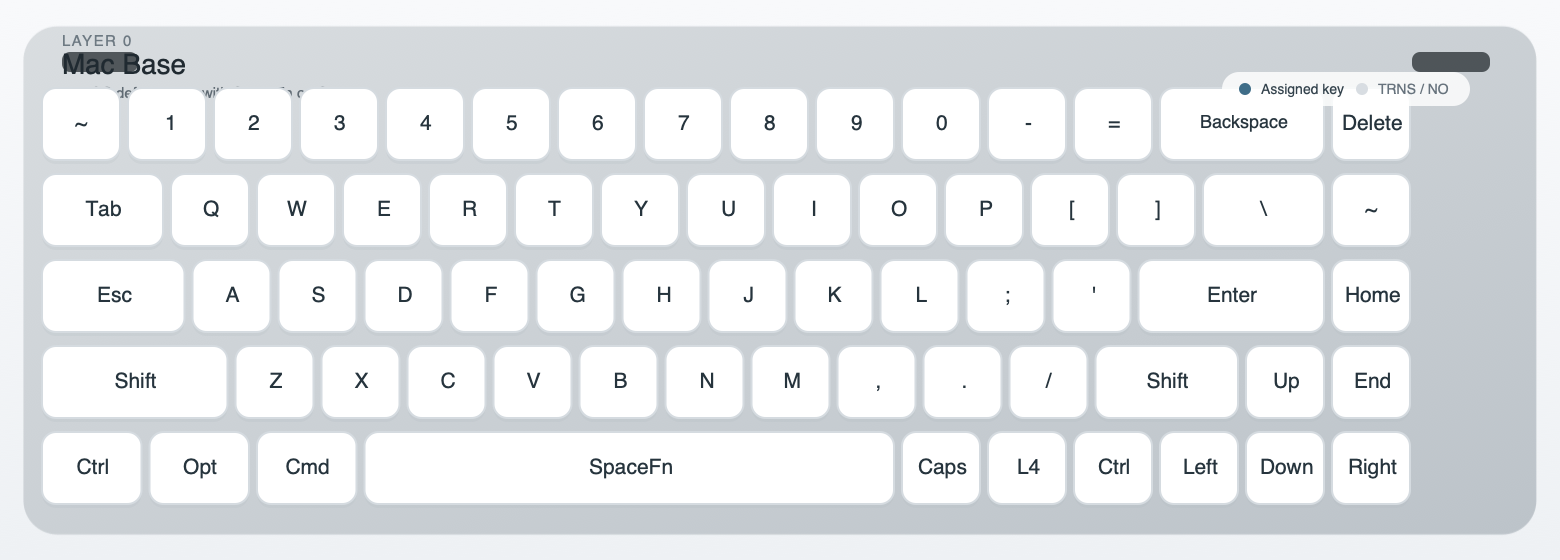
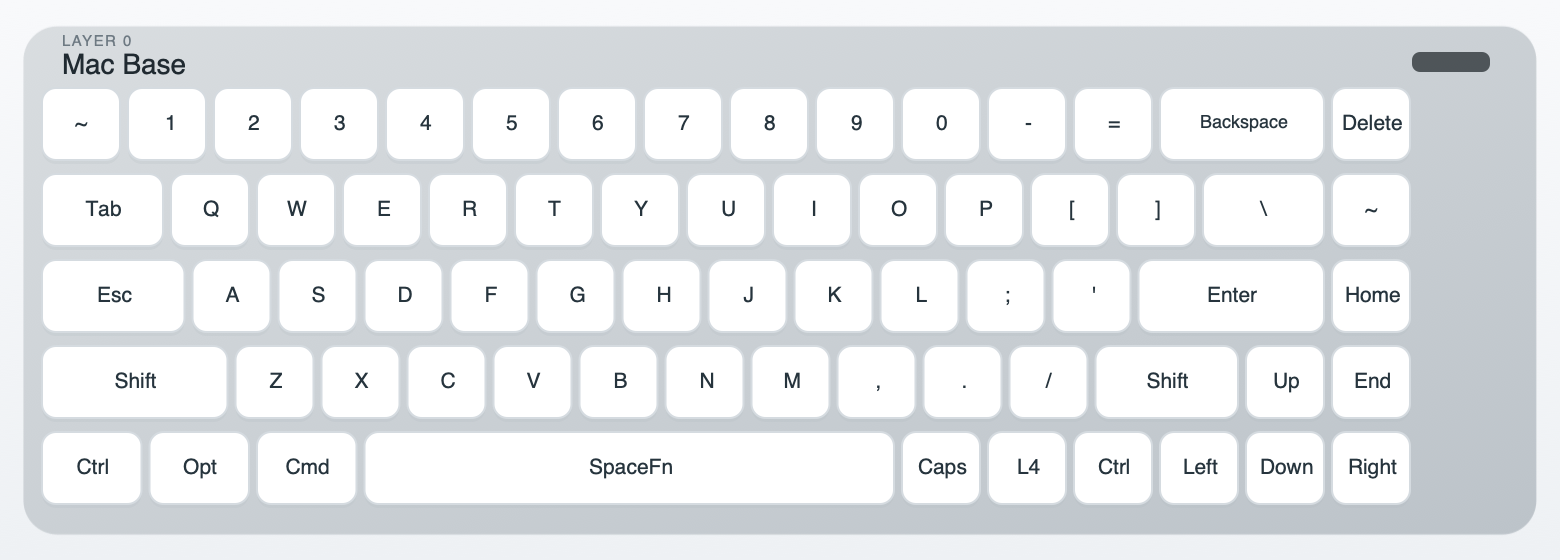
Clean up keymap image header overlays

Changed region(s): [[0.7692, 0.1214, 0.9538, 0.2125], [0.0308, 0.0911, 0.0923, 0.1518]]

diff --git a/tools/render_keymap_svgs.py b/tools/render_keymap_svgs.py
@@ -288,13 +288,6 @@ def render_layer_svg(keys, layers, meta):
     accent = meta["accent"]
     board_w = CANVAS_W - 2 * 24
     board_h = CANVAS_H - 2 * 26
-    subtitle = {
-        0: "macOS default layer with SpaceFn on Space",
-        1: "macOS navigation and function layer",
-        2: "Windows default layer with SpaceFn on Space",
-        3: "Windows navigation and function layer",
-        4: "wireless, media, brightness, and device controls",
-    }[meta["index"]]
     svg = [
         f'<svg xmlns="http://www.w3.org/2000/svg" width="{CANVAS_W}" height="{CANVAS_H}" viewBox="0 0 {CANVAS_W} {CANVAS_H}">',
         "<defs>",
@@ -312,14 +305,11 @@ def render_layer_svg(keys, layers, meta):
         "</defs>",
         f'<rect width="{CANVAS_W}" height="{CANVAS_H}" fill="url(#bg)"/>',
         f'<rect x="24" y="26" width="{board_w}" height="{board_h}" rx="34" fill="url(#case)" filter="url(#shadow)"/>',
-        f'<rect x="62" y="52" width="76" height="20" rx="8" fill="#2c3236" opacity="0.78"/>',
         f'<rect x="{CANVAS_W - 148}" y="52" width="78" height="20" rx="8" fill="#2c3236" opacity="0.78"/>',
         f'<text x="62" y="46" font-family="Inter, SF Pro Display, Arial, sans-serif" font-size="15" '
         f'font-weight="700" letter-spacing="1.5" fill="#6d7982">{html.escape(meta["name"].upper())}</text>',
         f'<text x="62" y="74" font-family="Inter, SF Pro Display, Arial, sans-serif" font-size="28" '
         f'font-weight="700" fill="#202a31">{html.escape(meta["title"])}</text>',
-        f'<text x="62" y="98" font-family="Inter, SF Pro Display, Arial, sans-serif" font-size="15" '
-        f'font-weight="500" fill="#5f6a73">{html.escape(subtitle)}</text>',
     ]
 
     for key in keys:
@@ -336,18 +326,7 @@ def render_layer_svg(keys, layers, meta):
         )
         svg.extend([key_shadow, key_rect, text_block(key["x"], key["y"], key["w"], key["h"], label, style["text"])])
 
-    svg.extend(
-        [
-            f'<rect x="{CANVAS_W - 338}" y="72" width="248" height="34" rx="17" fill="#ffffff" opacity="0.82"/>',
-            f'<circle cx="{CANVAS_W - 315}" cy="89" r="6" fill="{accent}"/>',
-            f'<text x="{CANVAS_W - 299}" y="94" font-family="Inter, SF Pro Display, Arial, sans-serif" '
-            'font-size="14" font-weight="600" fill="#33424c">Assigned key</text>',
-            f'<circle cx="{CANVAS_W - 198}" cy="89" r="6" fill="#d8dde2"/>',
-            f'<text x="{CANVAS_W - 182}" y="94" font-family="Inter, SF Pro Display, Arial, sans-serif" '
-            'font-size="14" font-weight="600" fill="#67737d">TRNS / NO</text>',
-            "</svg>",
-        ]
-    )
+    svg.append("</svg>")
     return "\n".join(svg)
 
 
